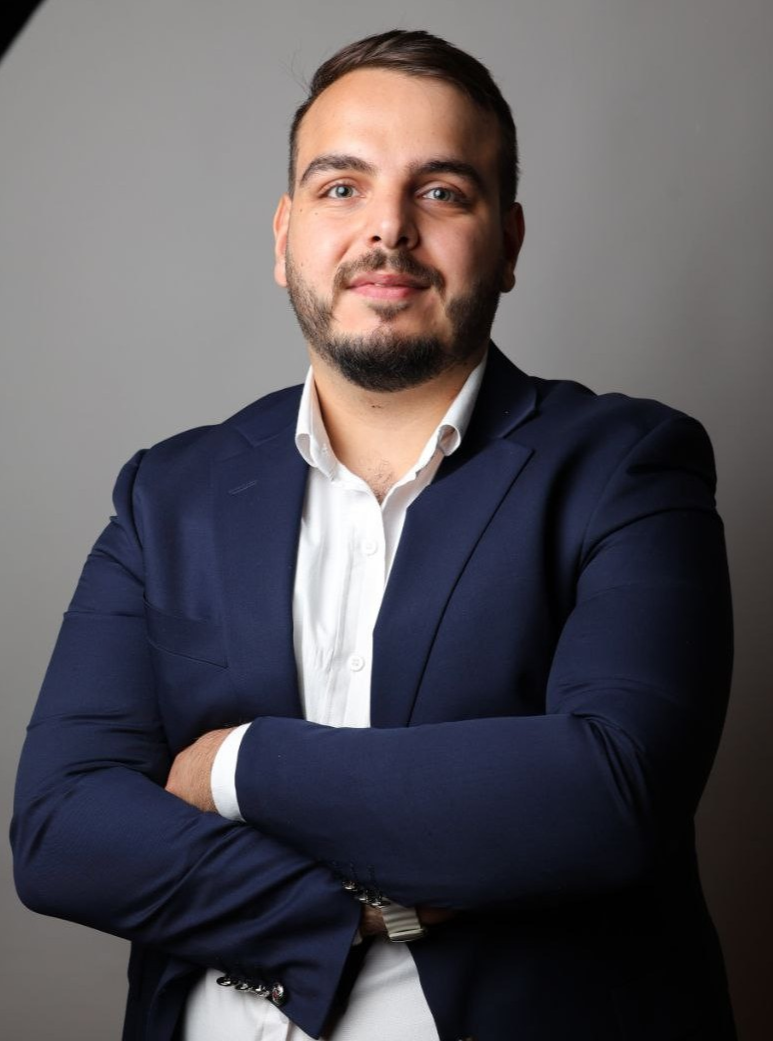
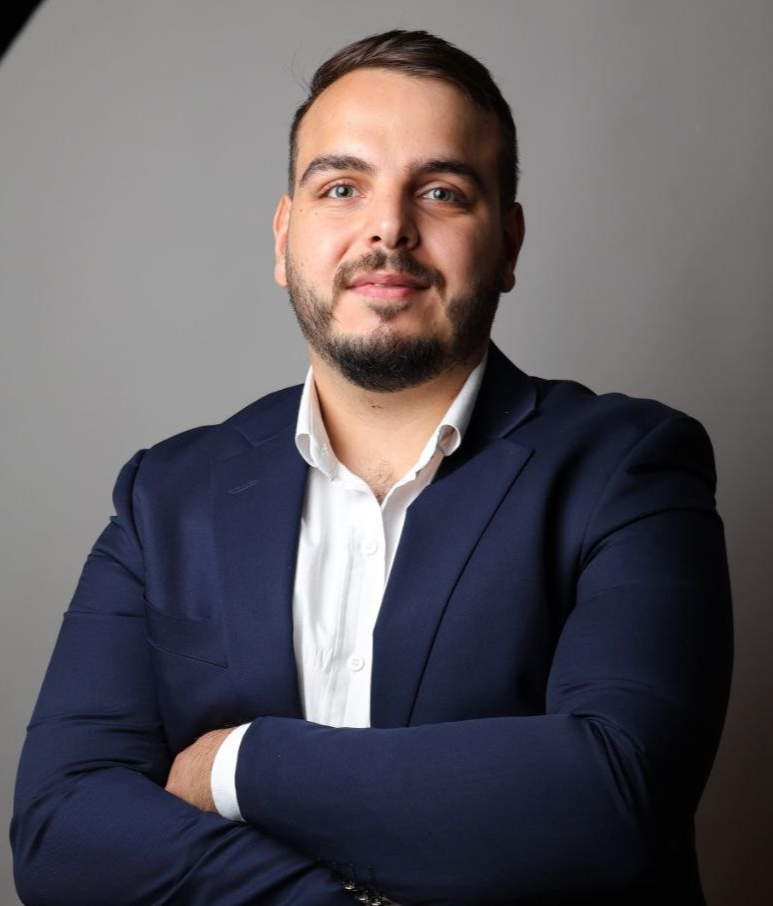
update the pfp image

diff --git a/src/components/sections/About.tsx b/src/components/sections/About.tsx
@@ -38,7 +38,8 @@ const About = () => {
       >
         <Image
           src={ProfilePic}
-          className="  xl:mt-6 md:mt-5 object-cover h-full"
+          quality={100}	
+          className="  xl:mt-0 md:mt-5 object-cover h-full w-full"
           alt="Ayham Mesho - Front-End Developer"
         />
       </motion.div>
